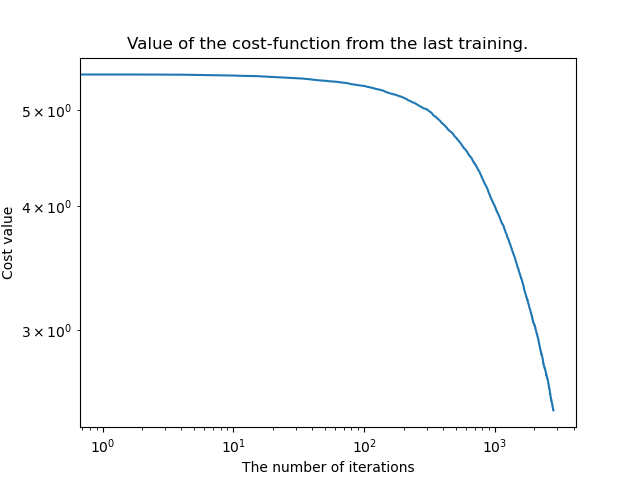
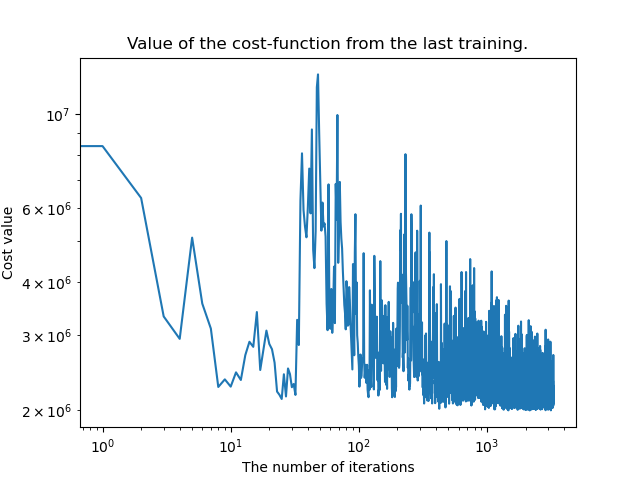
pushipush

diff --git a/project3/code/test_project_3.py b/project3/code/test_project_3.py
@@ -30,13 +30,13 @@ import numpy as np
 import gradient_descent
 import helper
 import seaborn as sns
-from tensorflow.keras.layers import Input
-from tensorflow.keras.models import Sequential
-from tensorflow.keras.layers import Dense
-from tensorflow.keras import optimizers
-from tensorflow.keras import regularizers
-from tensorflow.keras.utils import to_categorical
-import tensorflow as tf
+# from tensorflow.keras.layers import Input
+# from tensorflow.keras.models import Sequential
+# from tensorflow.keras.layers import Dense
+# from tensorflow.keras import optimizers
+# from tensorflow.keras import regularizers
+# from tensorflow.keras.utils import to_categorical
+# import tensorflow as tf
 
 
 """
@@ -637,51 +637,51 @@ if test11:
     print(f'Testing accuracy: {helper.accuracy_score(y_test, y_pred_test)}')
 
 
-"""
-TEST 12:
-DATASET:Bean
-METHOD: NN Keras
+# """
+# TEST 12:
+# DATASET:Bean
+# METHOD: NN Keras
 
-Tensorflow Keras
-"""
-test12 = True
-if test12:
-    print(">> RUNNING TEST 11 <<")
-    # Loading the training and testing dataset
-    n_components = 8
+# Tensorflow Keras
+# """
+# test12 = True
+# if test12:
+#     print(">> RUNNING TEST 11 <<")
+#     # Loading the training and testing dataset
+#     n_components = 8
 
-    X_train, X_test, y_train, y_test = helper.load_housing_california_data(
-        n_components, 2000)
-    # y_train = to_categorical(y_train)
-    # y_test = to_categorical(y_test)
+#     X_train, X_test, y_train, y_test = helper.load_housing_california_data(
+#         n_components, 2000)
+#     # y_train = to_categorical(y_train)
+#     # y_test = to_categorical(y_test)
 
-    model = Sequential()
-    model.add(Dense(10, activation="sigmoid", input_dim=n_components))
-    # model.add(Dense(50, activation="relu"))
-    # model.add(Dense(50, activation="relu"))
-    model.add(Dense(1))
-    sgd = optimizers.SGD(learning_rate=1e-4, momentum=0.5)
+#     model = Sequential()
+#     model.add(Dense(10, activation="sigmoid", input_dim=n_components))
+#     # model.add(Dense(50, activation="relu"))
+#     # model.add(Dense(50, activation="relu"))
+#     model.add(Dense(1))
+#     sgd = optimizers.SGD(learning_rate=1e-4, momentum=0.5)
 
-    model.compile(loss='mse',
-                  optimizer=sgd,
-                  metrics=[tf.keras.metrics.MeanSquaredError()])
+#     model.compile(loss='mse',
+#                   optimizer=sgd,
+#                   metrics=[tf.keras.metrics.MeanSquaredError()])
 
-    model.fit(X_train, y_train,
-              epochs=2000,
-              batch_size=100)
+#     model.fit(X_train, y_train,
+#               epochs=2000,
+#               batch_size=100)
 
-    y_hat_train = model.predict(X_train)
-    y_hat_test = model.predict(X_test)
+#     y_hat_train = model.predict(X_train)
+#     y_hat_test = model.predict(X_test)
 
-    r2_score_train = helper.r2_score(y_train, y_hat_train)
-    r2_score_test = helper.r2_score(y_test, y_hat_test)
+#     r2_score_train = helper.r2_score(y_train, y_hat_train)
+#     r2_score_test = helper.r2_score(y_test, y_hat_test)
 
-    print(f"\nR2-score training: {r2_score_train}")
-    print(f"R2-score testing: {r2_score_test}")
-    # train_scores = model.evaluate(X_train, y_train, batch_size=100)
-    # test_scores = model.evaluate(X_test, y_test, batch_size=100)
-    # print(f"\nAccuracy for training: {train_scores[1]}")
-    # print(f"Accuracy for testing: {test_scores[1]}")
+#     print(f"\nR2-score training: {r2_score_train}")
+#     print(f"R2-score testing: {r2_score_test}")
+#     # train_scores = model.evaluate(X_train, y_train, batch_size=100)
+#     # test_scores = model.evaluate(X_test, y_test, batch_size=100)
+#     # print(f"\nAccuracy for training: {train_scores[1]}")
+#     # print(f"Accuracy for testing: {test_scores[1]}")
 
 """
 TEST 13:
@@ -850,16 +850,16 @@ METHOD: Neural Network
 Testing NN for housing data
 """
 
-test16 = False
+test16 = True
 if test16:
     print('>> RUNNING TEST 16:')
     # Loading the training and testing dataset
     n_components = 8
     X_train, X_test, y_train, y_test = helper.load_housing_california_data(
-        n_components, 30, show_explained_ratio=True)
+        n_components, m_observations=1000, show_explained_ratio=True)
 
     # Setting the architecture of the Neural Network
-    node_list = [10]
+    node_list = [10]*4
 
     # Initializing the Neural Network
     FFNN = Neural_Network(
@@ -871,15 +871,15 @@ if test16:
     # Setting the preffered Stochastic Gradient Descent parameters
     FFNN.set_SGD_values(
         n_epochs=1000,
-        batch_size=2,
-        gamma=0.5,
-        eta=1e-4,
+        batch_size=10,
+        gamma=0.6,
+        eta=5e-4,
         lmbda=0
     )
 
     # Setting the preffered cost- and activation functions
     FFNN.set_cost_function(MSE)
-    FFNN.set_activation_function_hidden_layers('sigmoid')
+    FFNN.set_activation_function_hidden_layers('RELU')
 
     FFNN.train_model(X_train, y_train, keep_cost_values=True)
     FFNN.plot_cost_of_last_training()
@@ -887,8 +887,12 @@ if test16:
     y_pred_train = FFNN.feed_forward(X_train)
     y_pred_test = FFNN.feed_forward(X_test)
 
+    print(helper.r2_score(y_pred_train, y_train))
+    print(helper.r2_score(y_test, y_pred_test))
+
     for i, j in zip(y_pred_train, y_train):
-        print(f'(pred) {i} - {j} (exact). DIFF = {abs(i-j)}')
+        print(
+            f'(pred) {i} - {j} (exact). DIFF = {abs(i-j)}')
 
     print(helper.r2_score(y_pred_train, y_train))
     print(helper.r2_score(y_test, y_pred_test))

diff --git a/project3/code/helper.py b/project3/code/helper.py
@@ -9,7 +9,7 @@ from sklearn.model_selection import train_test_split
 from sklearn.utils import resample
 from sklearn.metrics import accuracy_score
 from sklearn.decomposition import PCA
-from sklearn.datasets import load_breast_cancer, load_iris, fetch_california_housing
+from sklearn.datasets import load_breast_cancer, load_iris, fetch_california_housing, load_diabetes
 
 import numpy as np
 import seaborn as sns
@@ -462,6 +462,56 @@ def load_iris_data(n, show_explained_ratio=False):
     return X_cancer_train, X_cancer_test, y_cancer_train, y_cancer_test
 
 
+def load_diabetes_PSY_data(n, show_explained_ratio=False):
+    """
+    Loading the cancer_data from scikit-learn. Selecting the
+    features with the highest explained variance ratio (the first
+    # n) and returning those
+
+    :param n (int):
+        amount of components we want to return
+
+    :return tuple(np.ndarray):
+        - Input data, training
+        - Input data, testing
+        - Target data, training
+        - Target data, testing
+    """
+
+    # Loading cancer data
+    diabetes = load_diabetes()
+    # Parameter labels (if you want, not used)
+
+    # TODO: shuffle the data
+    X_input = diabetes.data
+    y_target = diabetes.target    # 0 for benign and 1 for malignant
+    y_target = y_target.reshape(-1, 1)
+
+    values = np.concatenate((X_input, y_target), axis=1)
+    np.random.shuffle(values)
+
+    # Selecting the n first components w.r.t. the PCA
+    X_input = values[:, :-1]
+    y_target = values[:, -1]
+
+    # Selecting the n first components w.r.t. the PCA
+    pca = PCA(n_components=n)
+    X_nD = pca.fit_transform(X_input)
+
+    if show_explained_ratio:
+        print(
+            f'Total explained variance ratio (of {n} component): {sum(pca.explained_variance_ratio_)}')
+
+    # X_train_scale = np.mean(X_train, axis=0)
+    X_nD = (X_nD - np.mean(X_nD, axis=0))/np.std(X_nD, axis=0)
+    # X_nD = X_nD/(X_nD.max(axis=0))
+
+    X_cancer_train, X_cancer_test, y_cancer_train, y_cancer_test = train_test_split(
+        X_nD, y_target)
+
+    return X_cancer_train, X_cancer_test, y_cancer_train, y_cancer_test
+
+
 def load_housing_california_data(n, m_observations, show_explained_ratio=False):
     """
     Loading the cancer_data from scikit-learn. Selecting the
@@ -483,14 +533,14 @@ def load_housing_california_data(n, m_observations, show_explained_ratio=False):
     # Parameter labels (if you want, not used)
 
     # TODO: shuffle the data
-    X_input = pd.data
-    y_target = pd.target
+    X_input = pd.data[:1000]
+    y_target = pd.target[:1000]
     y_target = y_target.reshape(-1, 1)
 
     values = np.concatenate((X_input, y_target), axis=1)
     np.random.shuffle(values)
 
-    # Selecting the n first components w.r.t. the PCA
+    # # Selecting the n first components w.r.t. the PCA
     X_input = values[:m_observations, :-1]
     y_target = values[:m_observations, -1]
     # X_input = X_input[m_observations:2*m_observations]
@@ -547,7 +597,6 @@ def load_diabetes_data(n_components, m_observations=1000, show_explained_ratio=F
     X_train, y_train = midsampling_of_training_data(X_train, y_train)
 
     return X_train, X_test, y_train, y_test
-
 
 
 def load_dry_beans_data(n_components, m_observations=1000, show_explained_ratio=False):

diff --git a/project3/code/cost_functions.py b/project3/code/cost_functions.py
@@ -31,6 +31,7 @@ def logistic_cost_NN_multi(y_hat, y):
 
     return - np.sum(np.sum(np.log(y_hat)*y, axis=1))
 
+
 def cost_logistic_regression(beta, X, y, lmbda=0):
     """
     The cost function of the logistic regression, calculates the 
@@ -53,6 +54,7 @@ def cost_logistic_regression(beta, X, y, lmbda=0):
     return -np.sum(y*np.log(prob(beta, X)) + (1-y)
                    * np.log(1 - prob(beta, X))) + lmbda*np.sum(beta**2)
 
+
 def cost_logistic_regression_multi(beta, X, y, lmbda=0):
     """
     The cost function of the logistic regression, calculates the 
@@ -71,11 +73,11 @@ def cost_logistic_regression_multi(beta, X, y, lmbda=0):
     :return (float):
         the value of the cost function
     """
-    
+
     # TODO: add this underneath
     # Row-wise dot product, then summation
-    return - np.sum(np.sum(np.log(prob_multi(beta, X))*y, axis=1)) #+ lmbda*np.sum(beta**2)
-
+    # + lmbda*np.sum(beta**2)
+    return - np.sum(np.sum(np.log(prob_multi(beta, X))*y, axis=1))
 
 
 def prob(beta, X):
@@ -100,11 +102,11 @@ def prob_multi(beta, X):
     """
     # TODO: 
     """
-    
-    z = beta[:,0].T + X @ beta[:,1:].T
-    
+
+    z = beta[:, 0].T + X @ beta[:, 1:].T
+
     probs = softmax(z)
-    
+
     return probs
 
 
@@ -121,7 +123,7 @@ def MSE(y_hat, y):
         the value
     """
 
-    return 1/2 * np.sum((y - y_hat)**2)
+    return 1/len(y_hat) * np.sum((y - y_hat)**2)
 
 
 def cost_OLS(beta, X, y, lmbda=0):

diff --git a/project3/code/tester.py b/project3/code/tester.py
@@ -1,15 +1,10 @@
 import numpy as np
 
 a = np.array([[1, 2, 3], [1, 4, 5], [1, 6, 7]])
-b = np.array([[1, 2, 3], [1, 4, 5], [1, 6, 7]])
-X = np.array([[2, 2, 2], [3, 3, 3]])
+b = np.array([[1], [2], [3]])
 
-alt = a[:,1:]
-noe = a[:,0]
+sum = np.concatenate((a, b), axis=1)
 
-sum = alt + noe[:, np.newaxis]
-
-print(noe)
-print(alt)
 print(sum)
-
+np.random.shuffle(sum)
+print(sum)
